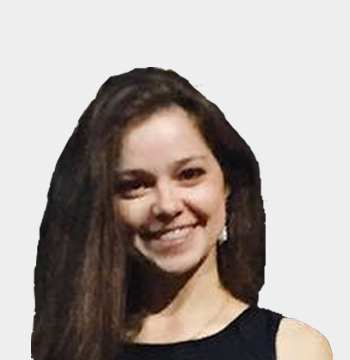
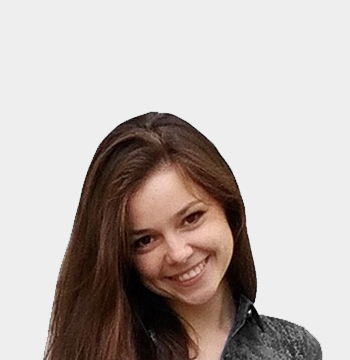
Replaced images of Masha and Memo, added correct pricing and disclaimer, welcome is working again

diff --git a/index.html b/index.html
@@ -2,17 +2,17 @@
 layout: default
 onepage: true
 services:
-  - title: One request - $5.00 USD
+  - title: On demand - $10.00 USD
     icon: fa fa-bookmark-o
-    desc: Want to try us out and don't want to commit to a day? This will get you in contact with us and we will help you with your request via text or voice call
+    desc: Availability 24 hours - Includes 1 request or 1 interaction or 5 minutes of voice - Only one individual can interact with advisors - Great option if you want to get a feel for the service
     bg: /assets/images/@stock/service-1.jpg
-  - title: 1 day package - $50.00 USD
+  - title: 1 day - $75.00 USD
     icon: fa fa-bookmark-o
-    desc: Availability of 24 hours for help or recommendations. Great if you need advise previous to your trip or for that first day in Russia. Package includes 5 requests via text or voice.
+    desc: Availability 24 hours - Includes 5 requests or 10 interactions or 30 minutes of voice - Only one individual can interact with advisors - Great if you need advise previous to your trip or for that first day in Russia
     bg: /assets/images/@stock/service-2.jpg
-  - title: 3 day package - $125.00 USD
+  - title: 3 day package - $175.00 USD
     icon: fa fa-bookmark-o
-    desc: Worry free package perfect to keep your trip hassle free. This package includes 15 requests/recommendations via text or voice.
+    desc: Availability 24 hours - Includes 15 requests or 30 interactions or 60 minutes of voice - Up to two individuals can interact with advisors - Worry free package perfect to keep your trip hassle free
     bg: /assets/images/@stock/service-3.jpg
 works:
   - path: _works/diff-foods.md
@@ -173,7 +173,7 @@ clients:
         <p class="small-title">main services</p>
         <h2>How we work</h2>
         <p class="big-size">1. Choose one of the packages below</p>
-        <p class="big-size">2. Immediately upon payment you will get our contact numbers (ex. Skype, WhatsApp, Viber, Facebook messenger)</p>
+        <p class="big-size">2. <b>Immediately</b> upon payment you will get our contact numbers (ex. Skype, WhatsApp, Telephone and SMS)</p>
         <p class="big-size">3. Start asking!</p>
       </div>
     </div>
@@ -187,6 +187,16 @@ clients:
       </div>
     {% endfor %}
   </div>
+</div>
+  <div class='row'>
+    <div class='large-8 columns small-centered'>
+<br>
+<center>
+        <p class="big-size">* request = Up to 15 minutes of work required for a task (ex. buying tickets, finding best terrace and making reservation)</p>
+        <p class="big-size">** interaction = Up to 5 minutes of continuous message exchange</p>
+        <p class="big-size">There is a booking commision of 20% added on top of ticket price, when you need us to get tickets on your behalf (ex. ballet, theater, museums)</p>
+</center>
+    </div>
 </div>
 
 <!--

diff --git a/welcome.html b/welcome.html
@@ -22,7 +22,7 @@ layout: default
        Skype: +1 530 563 6486
 </p>
        <p>For voice calls, we request that you first ask the advisor that you would like to do audio. <b>Available to help you in English and Spanish. Disponible en Ingles y Español.</b></p>
-       <a href="https://explorerus.com/assets/docs/terms.html">Terms of Service </a>
+       <a href="https://explorerus.com/terms.html">Terms of Service </a>
       </h2>
     </div>
   </div>
